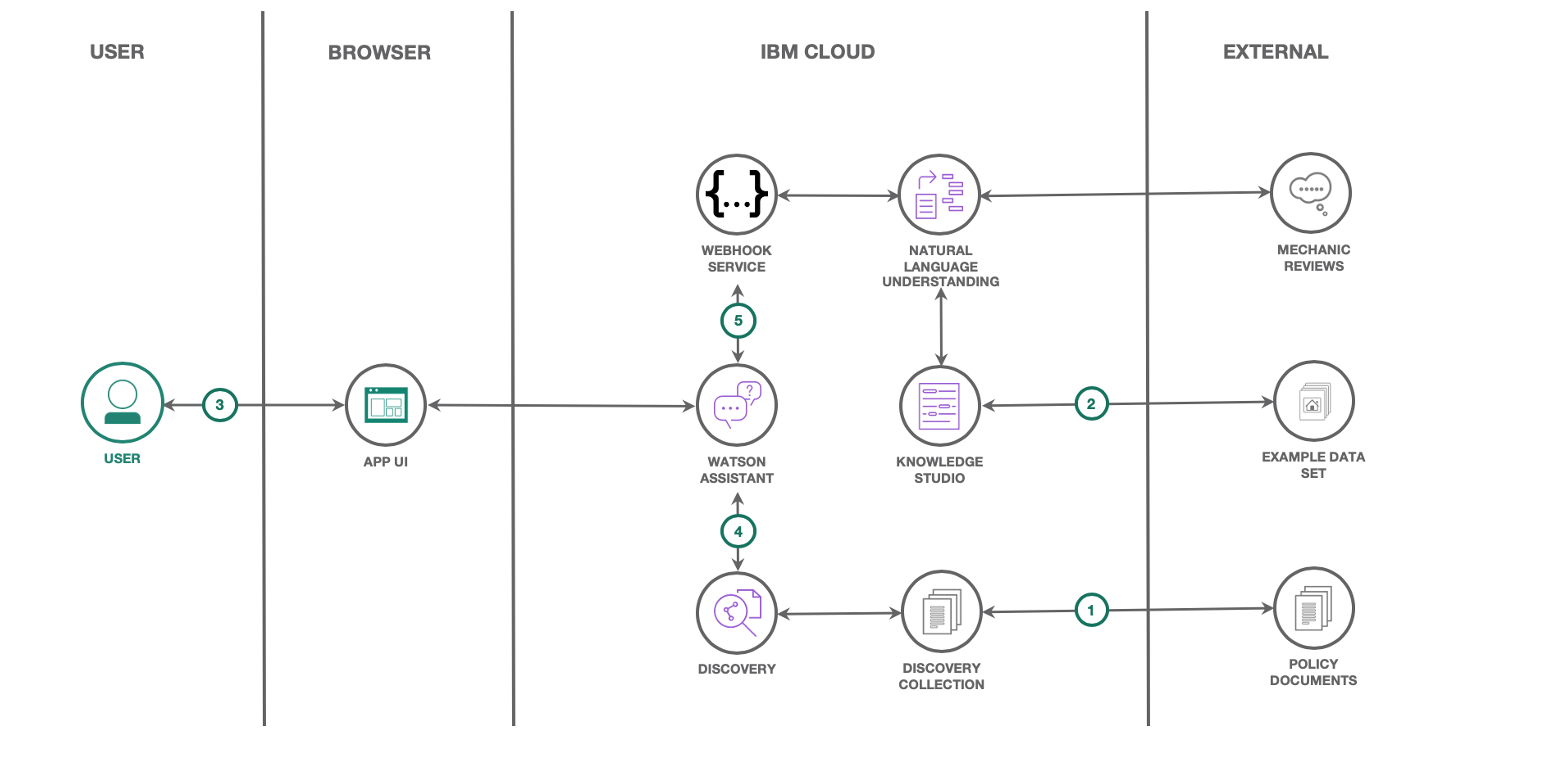
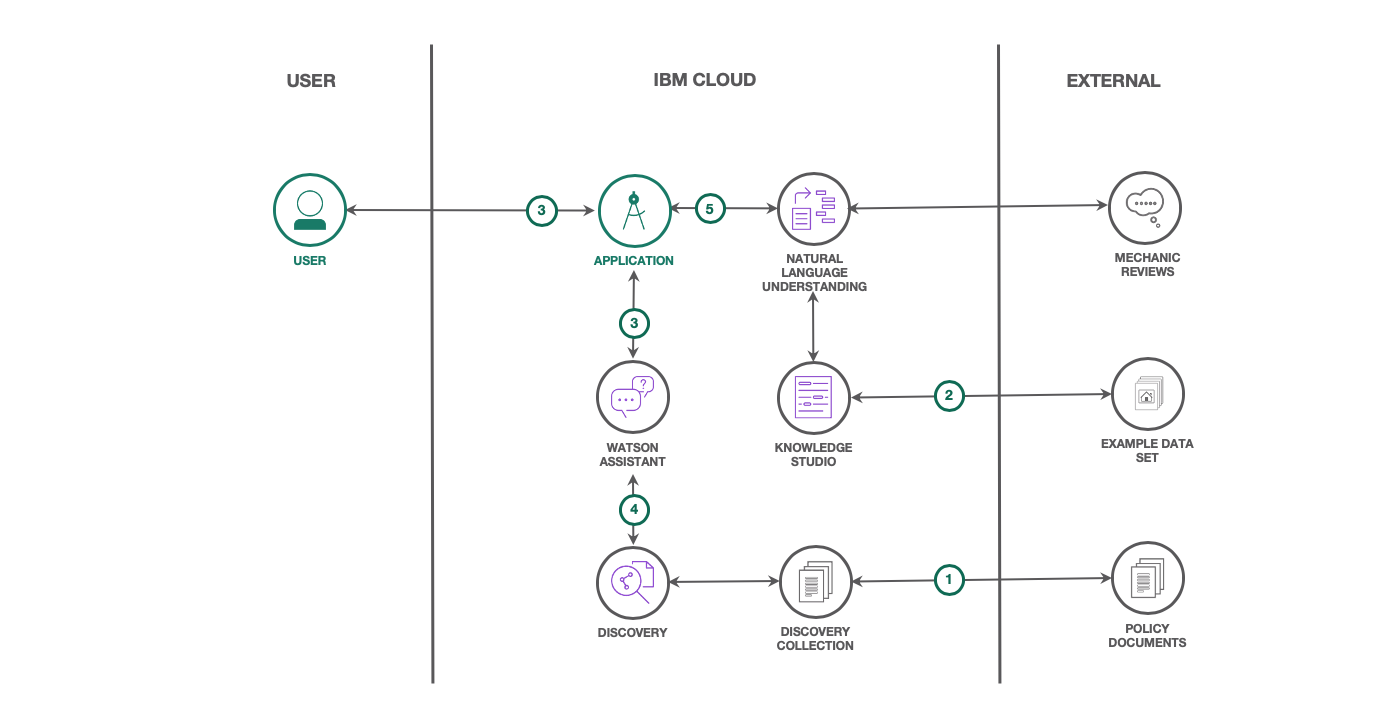
No webhook. So update arch and tweak flow.

diff --git a/README.md b/README.md
@@ -21,7 +21,7 @@ When you have completed this code pattern, you will understand how to:
 2. Mechanic review documents are uploaded to Watson Knowledge Studio, and then annotated to create custom entities and relationships.
 3. User chats via web-application UI to talk to Watson Assistant.
 4. Watson Assistant answers policy questions using Watson Discovery's querying capabilities.
-5. Watson Assistant recommends a mechanic based on the type of damage that is done to the vehicle, and on the sentiment of the customer reviews.
+5. The chatbot recommends a mechanic based on the type of damage that is done to the vehicle, and on the sentiment of the customer reviews.
 
 ## Prerequisites
 
